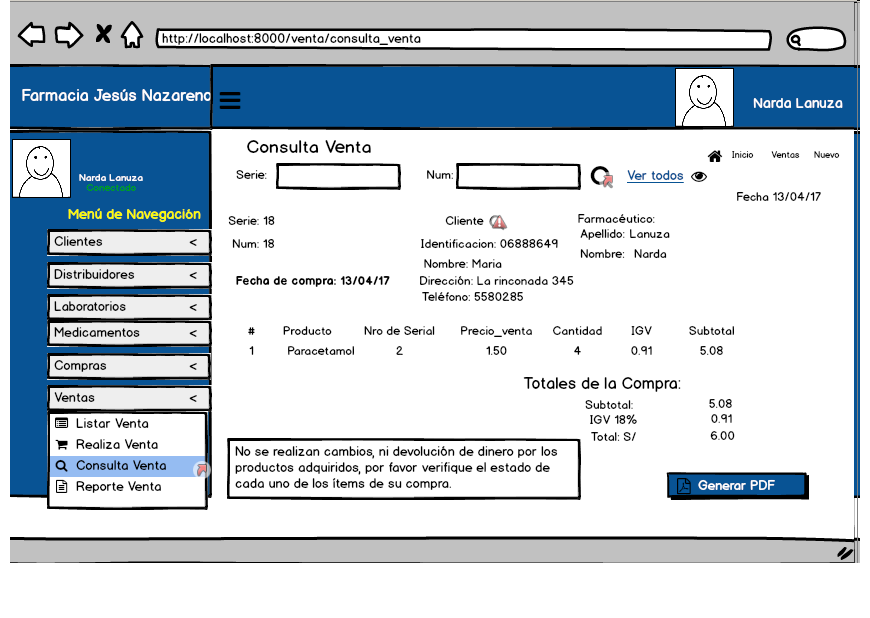
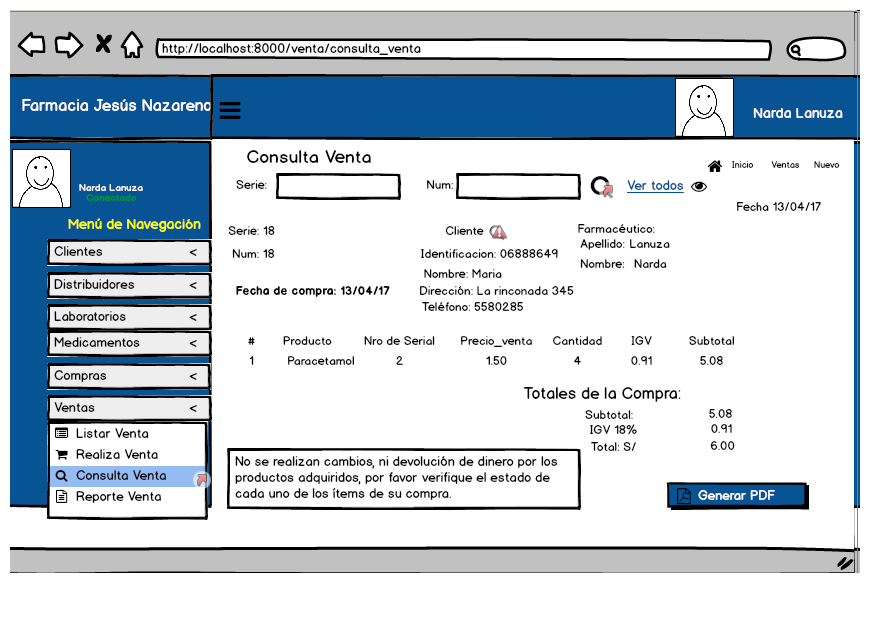
five

diff --git a/EARoot/EA1/EA1/EA9/EA1/EA142.htm b/EARoot/EA1/EA1/EA9/EA1/EA142.htm
@@ -19,7 +19,7 @@ function initPage(src) {
 <img src="EA143.png" usemap="#EA143" border="0" />
 
 <MAP NAME="EA143">
-<area shape="rect" coords="10,0,860,563" href="EA144.htm">
+<area shape="rect" coords="10,10,860,573" href="EA144.htm">
 </MAP>
 
 	<div class="ObjectTitle">consulta de ventas 2.html : user interface diagram</div>
@@ -30,7 +30,7 @@ function initPage(src) {
 		</tr>
 		<tr>
 			<td width="15%" class="ObjectDetailsTopic">Modified:</td>
-			<td width="85%" class="ObjectDetailsValue">25/04/2017 09:54:33 a.m.</td>
+			<td width="85%" class="ObjectDetailsValue">25/04/2017 10:27:56 a.m.</td>
 		</tr>
 		<tr style="padding-top: 10px;">
 			<td width="15%" class="ObjectDetailsTopic"><img src="../../../../../images/plus03.gif" align="absmiddle" id="proj" onclick="parent.toggleData(this.id)" />Project:</td>

diff --git a/index.htm b/index.htm
@@ -6,7 +6,7 @@
 <link href="css/ea.css" rel="stylesheet" type="text/css" />
 <script language="JavaScript" src="js/displayToc.js" type="text/javascript"></script>
 </head>
-<body onload="initLoad(this,'toc.htm','blank.htm')" onresize="resizePage()">
+<body onload="initLoad(this,'toc.htm','./EARoot/EA1/EA1/EA9/EA1/EA142.htm')" onresize="resizePage()">
 <div class="IndexTitle">
 	Model
 </div>
